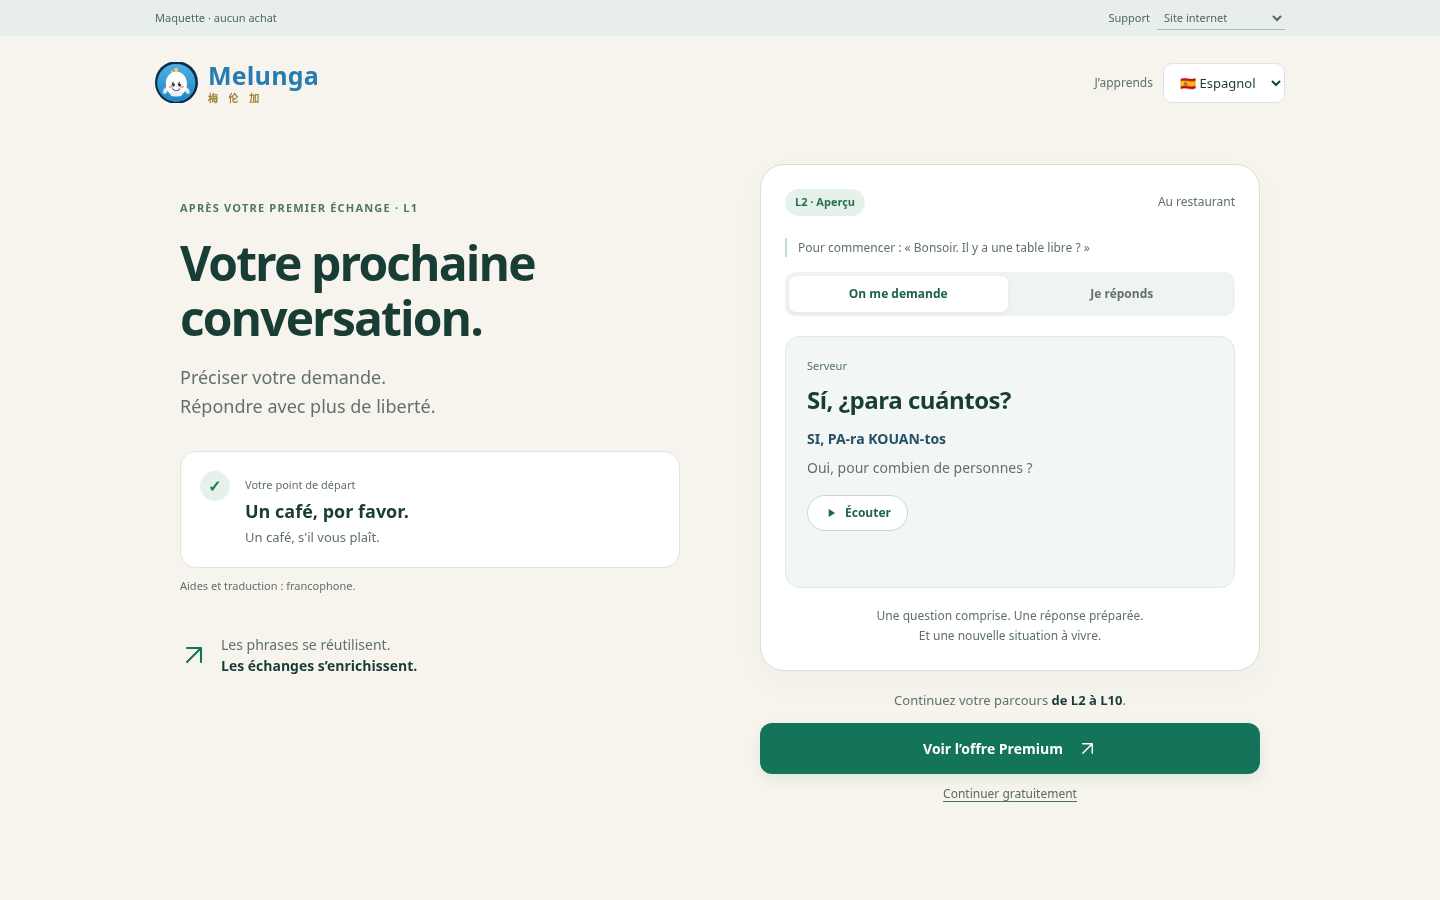
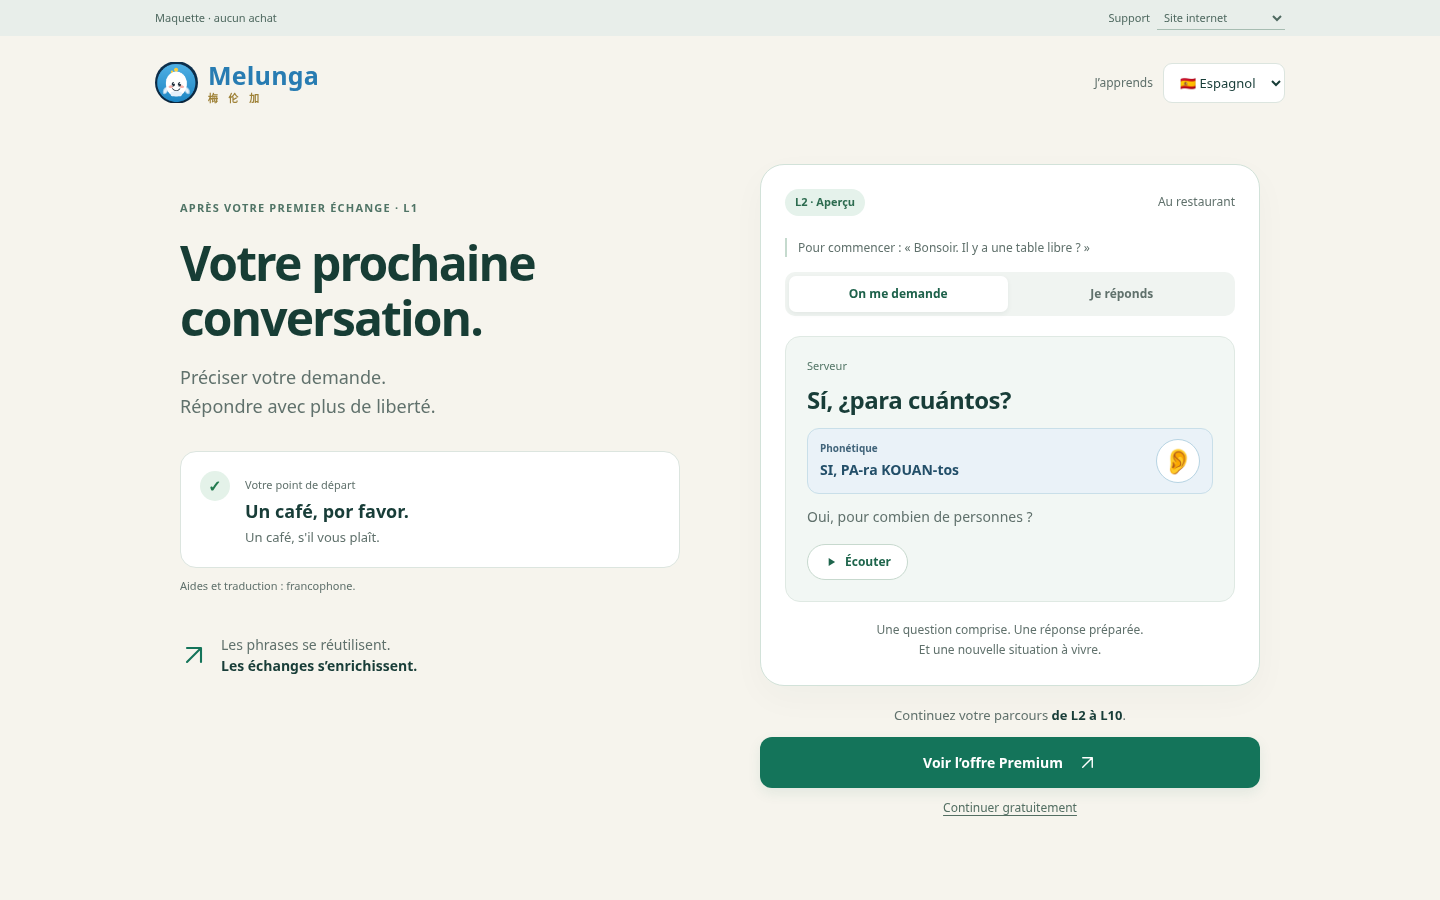
Restore phonetic ear controls in the Premium review mockup

diff --git a/docs/revue-pedagogique/maquette-premium/style.css b/docs/revue-pedagogique/maquette-premium/style.css
@@ -8,9 +8,9 @@
 .offer-panel{inset:0;margin:auto;width:min(600px,calc(100vw - 40px));max-width:none;max-height:calc(100dvh - 40px);border:1px solid #d7e3da;border-radius:22px;padding:0;background:var(--bg);color:var(--ink);overflow-y:auto}.offer-panel::backdrop{background:#edf2ef;opacity:1}.offer-heading{position:sticky;top:0;display:grid;grid-template-columns:44px 1fr 44px;align-items:center;text-align:center;padding:18px 20px;background:var(--bg);z-index:1}.icon-button{border:1px solid #cdded2;border-radius:50%;background:#fff;color:var(--ink);width:39px;height:39px;font-size:22px}.offer-content{padding:5px 28px 24px;text-align:center}.offer-content h2{font-size:34px;line-height:1.2;letter-spacing:-1.1px;margin:16px 0}.offer-intro{font-size:14px;color:var(--muted);line-height:1.7}.plans{display:grid;grid-template-columns:1fr 1fr;gap:12px;margin:25px 0 18px}.plan{display:flex;flex-direction:column;gap:10px;align-items:center;border:1px solid #cbded1;border-radius:16px;background:#fff;color:var(--ink);padding:22px 12px;min-width:0}.plan:hover,.plan[aria-pressed=true]{border-color:var(--accent);box-shadow:0 0 0 1px var(--accent);background:#edf7f0}.plan-label{font-size:13px;font-weight:650}.plan strong{font-size:30px;letter-spacing:-.8px}.plan>span:last-child{font-size:11px;line-height:1.5;color:var(--muted)}.terms,.offer-note{font-size:12px;color:var(--muted)}.offer-note{font-size:10px;margin-top:18px}.store-card{padding:25px 18px;margin:25px 0 20px;border-radius:16px;background:#fff;border:1px solid var(--line)}.store-card p{font-size:14px;color:var(--muted)}.demo-choice{font-size:12px;line-height:1.6;color:#245e45;margin:12px 0;min-height:20px}.audio-status{position:fixed;bottom:20px;left:50%;transform:translateX(-50%);max-width:90vw;z-index:4;font-size:12px;background:#fff;border-radius:10px;box-shadow:0 4px 25px #183d3815;text-align:center}.audio-status:not(:empty){padding:12px 15px}
 .free-page{max-width:720px;margin:25px auto 50px;padding:0 22px}.free-page h1{font-size:34px}.free-dialogue{display:grid;gap:16px;margin-bottom:25px}.free-turn{padding:18px 20px;border-radius:16px;background:#fff;border:1px solid var(--line)}.free-turn:nth-child(even){background:#eaf2ed}.free-turn .turn-study{font-size:20px}.free-turn .turn-native{margin-bottom:0}.free-turn button{margin-top:12px}
 @media(max-width:800px){
- .brandbar{padding:15px 20px;gap:12px}.brand{font-size:21px}.brand-symbol{width:36px;height:36px;font-size:24px}.brand small{font-size:8px;margin-top:4px}.language-choice{display:block}.language-choice>span{display:none}.language-choice select{font-size:12px;max-width:170px;padding:8px}.review-strip{padding:5px 20px;font-size:10px}.review-strip select{font-size:10px}
- .flow-shell{display:block;margin:10px auto 0;max-width:520px;padding:0 20px calc(142px + env(safe-area-inset-bottom))}.story{padding:0}.eyebrow{font-size:10px;letter-spacing:.8px}h1{font-size:29px;line-height:1.13;letter-spacing:-1px;margin:10px 0}.intro{font-size:14px;line-height:1.6;margin:0}.intro br{display:none}.known-card{padding:11px 13px;margin:17px 0 0;border-radius:12px;gap:10px}.known-icon{width:25px;height:25px;font-size:13px}.known-study{font-size:15px;margin:1px 0}.small-label{font-size:10px}.known-native{font-size:11px}.reader-note{font-size:10px;margin:6px 1px 12px}.desktop-benefit,.desktop-only{display:none}
- .next-card{border-radius:18px;padding:16px}.card-heading{margin-bottom:12px}.turn-tabs{margin-bottom:12px}.turn-tabs button{padding:7px 4px;font-size:11px}.turn-card{min-height:0;padding:14px 16px}.turn-study{font-size:21px;line-height:1.4;margin-bottom:7px}.turn-role{margin-bottom:6px}.turn-phon{font-size:13px;margin-bottom:6px}.turn-native{font-size:12px;margin-bottom:12px}.turn-reading{font-size:11px}.next-benefit{font-size:11px;margin:10px 0 0;line-height:1.6}
+ .brandbar{padding:11px 20px;gap:12px}.brand{font-size:21px}.brand-symbol{width:36px;height:36px;font-size:24px}.brand small{font-size:8px;margin-top:4px}.language-choice{display:block}.language-choice>span{display:none}.language-choice select{font-size:12px;max-width:170px;padding:8px}.review-strip{padding:5px 20px;font-size:10px}.review-strip select{font-size:10px}
+ .flow-shell{display:block;margin:6px auto 0;max-width:520px;padding:0 20px calc(142px + env(safe-area-inset-bottom))}.story{padding:0}.eyebrow{font-size:10px;letter-spacing:.8px}h1{font-size:29px;line-height:1.13;letter-spacing:-1px;margin:10px 0}.intro{font-size:14px;line-height:1.6;margin:0}.intro br{display:none}.known-card{padding:9px 13px;margin:12px 0 0;border-radius:12px;gap:10px}.known-icon{width:25px;height:25px;font-size:13px}.known-study{font-size:15px;margin:1px 0}.small-label{font-size:10px}.known-native{font-size:11px}.reader-note{font-size:10px;margin:6px 1px 10px}.desktop-benefit,.desktop-only{display:none}
+ .next-card{border-radius:18px;padding:14px}.card-heading{margin-bottom:12px}.turn-tabs{margin-bottom:12px}.turn-tabs button{padding:7px 4px;font-size:11px}.turn-card{min-height:0;padding:12px 14px}.turn-study{font-size:21px;line-height:1.4;margin-bottom:7px}.turn-role{margin-bottom:6px}.turn-phon{font-size:13px;margin-bottom:6px}.turn-native{font-size:12px;margin-bottom:12px}.turn-reading{font-size:11px}.next-benefit{font-size:11px;margin:10px 0 0;line-height:1.6}
  .premium-actions{position:fixed;bottom:0;left:50%;transform:translateX(-50%);z-index:3;width:min(100%,520px);padding:12px 20px calc(5px + env(safe-area-inset-bottom));background:var(--bg);border-top:1px solid #dae4dc}.premium-actions p{font-size:11px;margin-bottom:8px}.primary{min-height:48px;font-size:13px}.quiet{font-size:11px;min-height:36px;padding:8px 14px}.offer-panel{width:100vw;height:100vh;height:100dvh;max-height:none;border:0;border-radius:0}.offer-heading{padding-top:calc(16px + env(safe-area-inset-top))}.offer-content{padding:0 22px 24px}.offer-content h2{font-size:30px;margin-top:22px}.plans{margin-top:26px}.plan{padding:22px 8px}.plan strong{font-size:28px}.offer-intro{font-size:13px}.audio-status{bottom:145px}.free-page{margin-top:15px}.free-page h1{font-size:28px}
 }
 @media(max-width:360px){.brandbar,.flow-shell{padding-left:15px;padding-right:15px}.brand-symbol{display:none}.language-choice select{max-width:155px}.review-strip{padding-inline:15px}.turn-study{font-size:19px}.turn-phon{font-size:12px}.next-card{padding:13px}.turn-card{padding:13px}.offer-content{padding-inline:16px}.plan strong{font-size:25px}.plan>span:last-child{font-size:10px}}
@@ -22,3 +22,8 @@
 @media(max-width:800px){.scene-context{font-size:11px;margin-bottom:12px}}
 
 .ui-icon{display:block;width:19px;height:19px;flex:none}.listen-button .ui-icon{width:14px;height:14px}.desktop-benefit>.ui-icon{width:28px;height:28px;color:var(--accent)}
+.phonetic-aid{display:flex;align-items:center;gap:12px;margin:0 0 12px;padding:10px 12px;border:1px solid #c9dfe9;border-radius:12px;background:#eaf2f8}.phonetic-copy{flex:1;min-width:0}.phonetic-label{display:block;margin-bottom:3px;font-size:10px;font-weight:650;color:#41647a}.phonetic-aid .turn-phon{margin:0}.phonetic-ear{display:grid;place-items:center;flex:none;width:44px;min-width:44px;height:44px;padding:0;border:1px solid #b7d4e3;border-radius:50%;background:#fff;color:var(--blue);font-size:25px;line-height:1}.phonetic-ear:hover{background:#dcecf6}
+
+@media(max-width:800px){.phonetic-aid{padding-block:8px;margin-bottom:8px}}
+
+@media(max-width:800px){.story h1{margin-block:8px}.known-card{margin-top:8px}.card-heading{margin-bottom:10px}.scene-context{margin-bottom:10px}}

diff --git a/docs/revue-pedagogique/maquette-premium/app.js b/docs/revue-pedagogique/maquette-premium/app.js
@@ -52,7 +52,16 @@
         const element=document.createElement('p');element.className=className;element.textContent=text;
         if(key==='study')element.lang=pair().studyCode;
         if(key==='native')element.lang=pair().nativeCode;
-        article.append(element);
+        if(key==='phon'){
+          const aid=document.createElement('div');aid.className='phonetic-aid';
+          const copy=document.createElement('div');copy.className='phonetic-copy';
+          const label=document.createElement('span');label.className='phonetic-label';label.textContent='Phonétique';
+          copy.append(label,element);
+          const ear=document.createElement('button');ear.type='button';ear.className='phonetic-ear';
+          ear.setAttribute('aria-label','Écouter la prononciation');ear.title='Écouter la prononciation';
+          const icon=document.createElement('span');icon.setAttribute('aria-hidden','true');icon.textContent='👂';ear.append(icon);
+          ear.addEventListener('click',()=>listen(item,ear));aid.append(copy,ear);article.append(aid);
+        }else article.append(element);
       }
       const audio=document.createElement('button');audio.type='button';audio.className='listen-button';
       audio.innerHTML='<svg class="ui-icon" viewBox="0 0 24 24" aria-hidden="true"><path d="m8 5 11 7-11 7Z" fill="currentColor"/></svg>Écouter';
@@ -96,6 +105,7 @@
   $('receivedTab').addEventListener('click',()=>{stopAudio();turn=0;renderTurn();});
   $('replyTab').addEventListener('click',()=>{stopAudio();turn=1;renderTurn();event('preview_reply_viewed',{pair:pair().id});});
   $('previewListen').addEventListener('click',()=>listen(pair().preview[turn],$('previewListen')));
+  $('previewPhonListen').addEventListener('click',()=>listen(pair().preview[turn],$('previewPhonListen')));
   $('premiumOpen').addEventListener('click',openOffer);
   $('offerBack').addEventListener('click',closeOffer);
   offer.addEventListener('cancel',e=>{e.preventDefault();closeOffer();});

diff --git a/docs/revue-pedagogique/maquette-premium/index.html b/docs/revue-pedagogique/maquette-premium/index.html
@@ -31,7 +31,7 @@
         <p id="previewRole" class="turn-role"></p>
         <p id="previewStudy" class="turn-study"></p>
         <p id="previewReading" class="turn-reading" hidden></p>
-        <p id="previewPhon" class="turn-phon"></p>
+        <div class="phonetic-aid"><div class="phonetic-copy"><span class="phonetic-label">Phonétique</span><p id="previewPhon" class="turn-phon"></p></div><button type="button" id="previewPhonListen" class="phonetic-ear" aria-label="Écouter la prononciation" title="Écouter la prononciation"><span aria-hidden="true">👂</span></button></div>
         <p id="previewNative" class="turn-native"></p>
         <button type="button" id="previewListen" class="listen-button"><svg class="ui-icon" viewBox="0 0 24 24" aria-hidden="true"><path d="m8 5 11 7-11 7Z" fill="currentColor"/></svg>Écouter</button>
       </article>

diff --git a/docs/revue-pedagogique/maquette-premium/README.md b/docs/revue-pedagogique/maquette-premium/README.md
@@ -6,6 +6,8 @@ Proposition pour Kartech et Claude. Ce prototype se trouve dans les documents de
 
 Après une première expérience L1, montrer le point de départ concret, puis une nouvelle situation L2. La personne écoute ce qu'on lui dit et découvre une réponse préparée, avec phonétique et sens. Elle peut consulter Premium ou revenir à un échange gratuit.
 
+L'oreille 👂 reste placée à côté de la phonétique, dans l'aperçu et dans les répliques L1. C'est un bouton qui relit la phrase originale dans la langue étudiée, comme l'oreille existante de l'application ; la transcription phonétique n'est pas envoyée à une voix de la langue du lecteur. Le bouton principal Écouter reste disponible.
+
 L'incitation tient à la suite visible de son apprentissage. Il n'y a ni compte à rebours, offre inventée, certificat de maîtrise ni obligation de terminer le catalogue pour voir L2. Les offres existantes restent la référence et aucune conversion n'est prédite.
 
 ## Utilisation locale
@@ -41,6 +43,8 @@ Commande : `node docs/revue-pedagogique/maquette-premium/verify.cjs` depuis la r
 
 Résultat : **PASS** pour sept couples à 390 × 844, 320 × 568 et 1440 × 900. Les soixante-dix références de tours correspondent aux sources, y compris les lectures zh/ja/ko lorsqu'elles sont fournies. Les deux répliques, leurs aides et le texte complet transmis à la synthèse ont été contrôlés.
 
+Ajout demandé par Kartech : les oreilles de l'aperçu sont contrôlées pour chaque couple et chaque réplique, avec une cible de 44 pixels et une lecture du texte étudié dans sa langue. Le retour L1 conserve une oreille près de chaque phonétique ; la lecture du premier tour y est également vérifiée.
+
 L'offre web conserve ses périodes et ses prix ; le mode Android n'invente pas ceux de Google Play. Les retours gratuits, Échap et la restitution du focus fonctionnent. Aucun débordement horizontal, erreur JavaScript, appel d'achat ni écriture de droits n'a été relevé. Sur mobile, le dialogue d'offre couvre tout l'écran, avec un fond opaque.
 
 L'audio a été simulé pour vérifier le texte transmis : la qualité sonore réelle et l'intégration native ne sont pas certifiées. Le mode Android de cette maquette est une présentation dans le navigateur, pas un essai APK.
@@ -49,5 +53,6 @@ Captures du véritable viewport, sans sélection d'offre :
 
 - [Aperçu sur téléphone](captures/phone-module.png) · [Offre web sur téléphone](captures/phone-offer.png)
 - [Aperçu sur ordinateur](captures/desktop-module.png) · [Offre web sur ordinateur](captures/desktop-offer.png)
+- [Détail de la phonétique avec l'oreille](captures/phone-pronunciation.png)
 
 ![Aperçu sur téléphone](captures/phone-module.png)

diff --git a/docs/revue-pedagogique/maquette-premium/message-claude.md b/docs/revue-pedagogique/maquette-premium/message-claude.md
@@ -4,6 +4,8 @@ Kartech a demandé un outil qui donne envie de passer à Premium. La maquette au
 
 Après un échange L1 simulé, elle montre un exemple L1, un aperçu L2 avec deux répliques successives, leurs aides et un bouton Écouter, puis l'offre et le retour gratuit. Sept couples actifs sont consultables. Les tours sources restent entiers ; le contexte précédent est donné par sa traduction. Les captures téléphone et ordinateur sont dans `captures/`.
 
+À la demande de Kartech, l'oreille 👂 est présente à côté de la phonétique dans l'aperçu et les répliques L1. Elle fait écouter la phrase étudiée, comme l'oreille actuelle de l'application, et non la transcription phonétique lue dans la langue du lecteur.
+
 Relis surtout la valeur perçue de la suite, la difficulté des extraits et la préparation de ce que l'interlocuteur dit. Certains tours L2 cumulent plusieurs intentions ; leur extraction ne valide pas encore une progression corrigée. Le mécanisme d'incitation est à choisir avant de sélectionner les mini-scènes pédagogiques définitives.
 
 Les contrôles de navigateur passent sur les sept couples à trois tailles d'écran : soixante-dix références sources exactes, audio entier transmis, retour gratuit et navigation clavier. L'audio est simulé pour ces contrôles ; il reste une écoute réelle à faire. Aucun APK n'a été construit.
